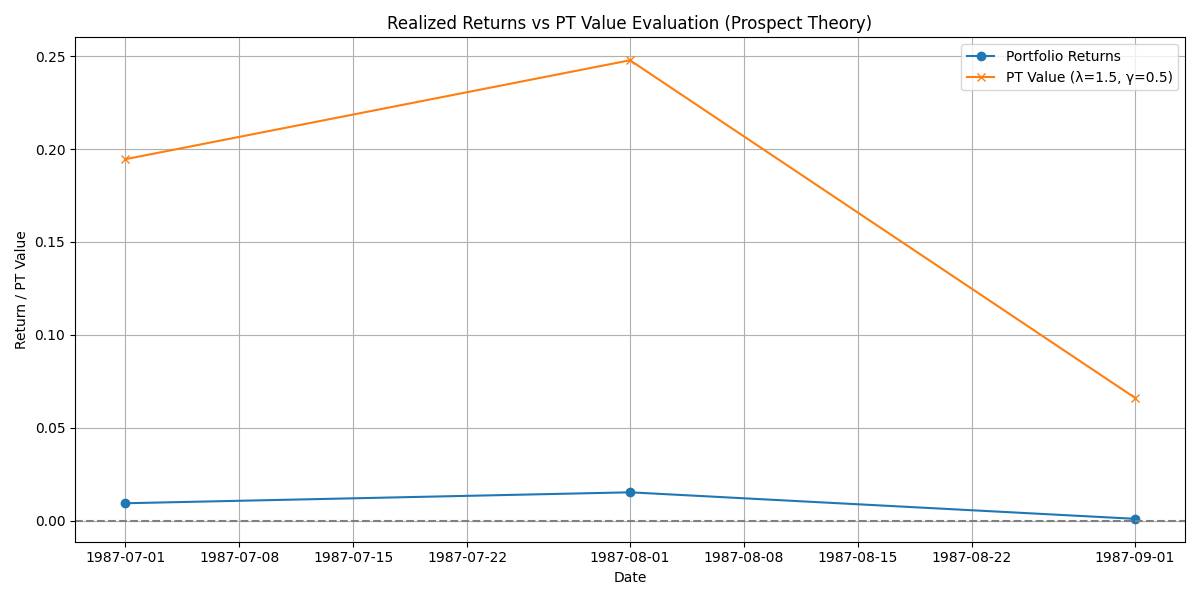
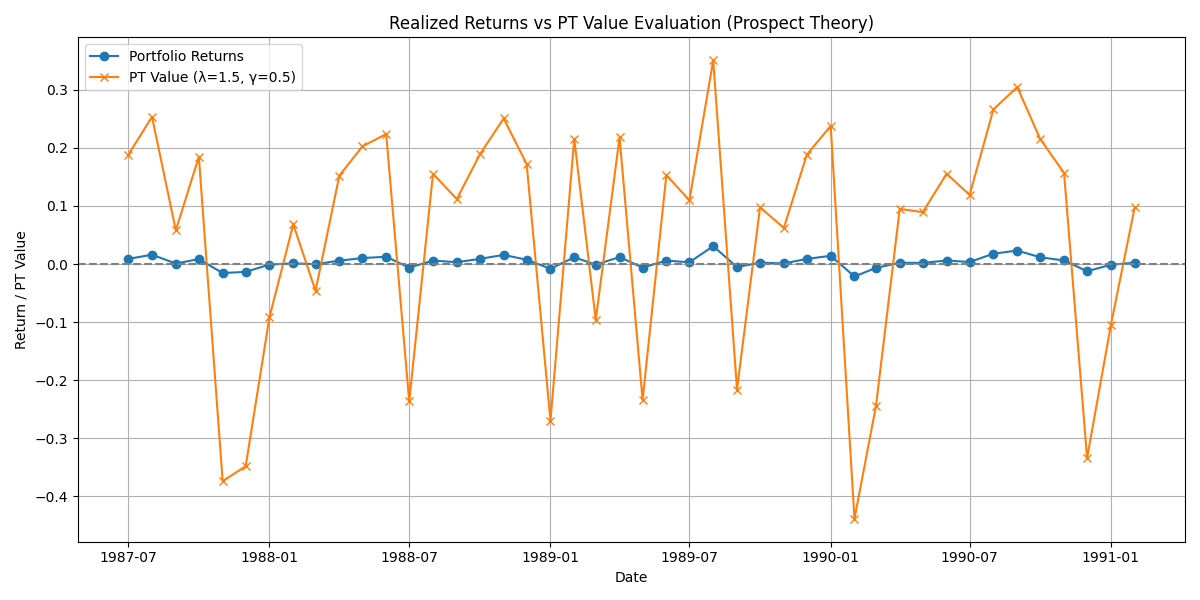
Sidste version
ffff

diff --git a/functions/prospect_optimizer.py b/functions/prospect_optimizer.py
@@ -634,7 +634,7 @@ def backtest_portfolio_bma(
         expected_portfolio_returns.append(expected_portfolio_return)
         
         r_tminus2 = r_tminus1
-        r_tminus1 = portfolio_return
+        r_tminus1 = portfolio_return #Aendr dette
 
     result_df = pd.DataFrame({
         'Portfolio Returns': portfolio_returns,
@@ -1120,17 +1120,18 @@ def backtest_portfolio_max_sharpe(
         print(f"Backtesting {current_date.strftime('%Y-%m')}")
 
         # Lookback returns
-        past_returns = historical_returns.iloc[t - lookback_period:t].mean()
+        past_returns = historical_returns.iloc[t - lookback_period:t]
         cov_matrix = past_returns.cov()
+        expected_returns = past_returns.mean()
 
        
         initial_weights = np.ones(num_assets) / num_assets
 
         result = result = maximize_sharp_ratio_no_spec(
-            past_returns, cov_matrix, initial_weights, Bounds(0, 1)  
+            expected_returns, cov_matrix, initial_weights, Bounds(0, 1)  
         )
 
-        weights = [round(w, 4) for w in result.x]
+        weights = [round(w, 4) for w in result]
         portfolio_weights.append(weights)
 
         # === Next period realized returns

diff --git a/jupyternotebooks/results.py b/jupyternotebooks/results.py
@@ -36,20 +36,20 @@ parent_dir = os.getcwd() # speciale_repo
 
 ################Rigtige input parametre#######################
 
-#strategies = ["conservative"]
-#lambda_values = [1.5, 1.75, 1.99]
-#gamma_values = [0.12, 0.2, 0.25]
+#Sstrategies = ["conservative"]
+lambda_values = [1.5, 1.75, 1.99]
+gamma_values = [0.12, 0.2, 0.25]
 #############################################################
 
 #TESTING PARAMETERS
-strategies = ["conservative"]
-lambda_values = [1.99]
-gamma_values = [ 0.2]
+#strategies = ["conservative"]
+#lambda_values = [1.99]
+#gamma_values = [ 0.2]
 
 
 #############Test dates#################
-start_date = '1977-06-01'
-end_date = '1987-09-01'
+#start_date = '1977-06-01'
+#end_date = '1991-02-01'
 
 
 ########################################
@@ -57,7 +57,11 @@ end_date = '1987-09-01'
 
 
 
-#####################This is the True start and end date#################
+#####################This is the True start and end date#################\\
+
+start_date = '1977-06-01'
+end_date = '2016-12-01'
+
 # Latest data: '2016-12-01'
 # Date range for the analysis
 ##end_date = '2016-12-01'
